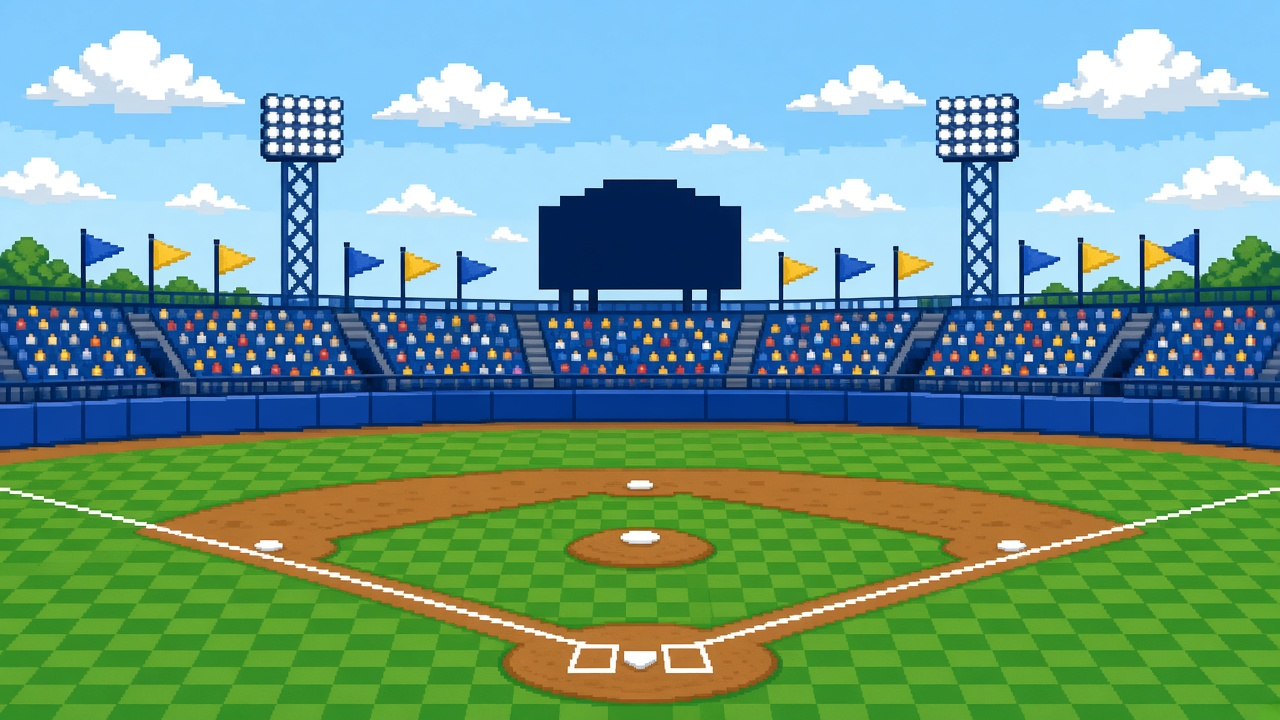
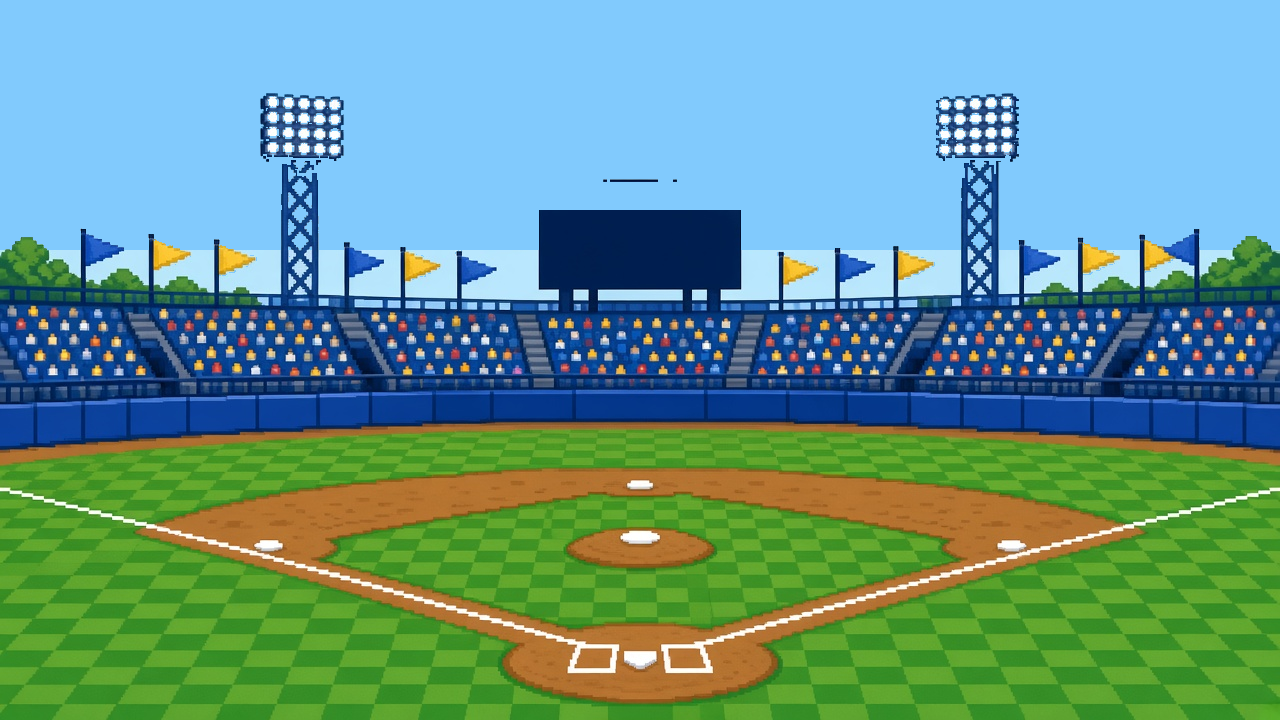
Strip baked checkerboard clouds from stadium sky
Paint out gray/white cloud residue in pixel-stadium-bg-v2 so only Nick's four transparent overlay clouds render. Delete unused seamless stadium asset that still baked checkerboards.

Changed region(s): [[0.0, 0.0306, 1.0, 0.3667]]

diff --git a/src/app/globals.css b/src/app/globals.css
@@ -1021,7 +1021,7 @@ button:focus-visible {
 
 
 
-/* Bottom homepage CTA: seamless stadium sky (no white fade mask). */
+/* Bottom homepage CTA: stadium sky with overlay clouds (no baked checkerboard). */
 .home-stadium-band {
   position: relative;
   isolation: isolate;
